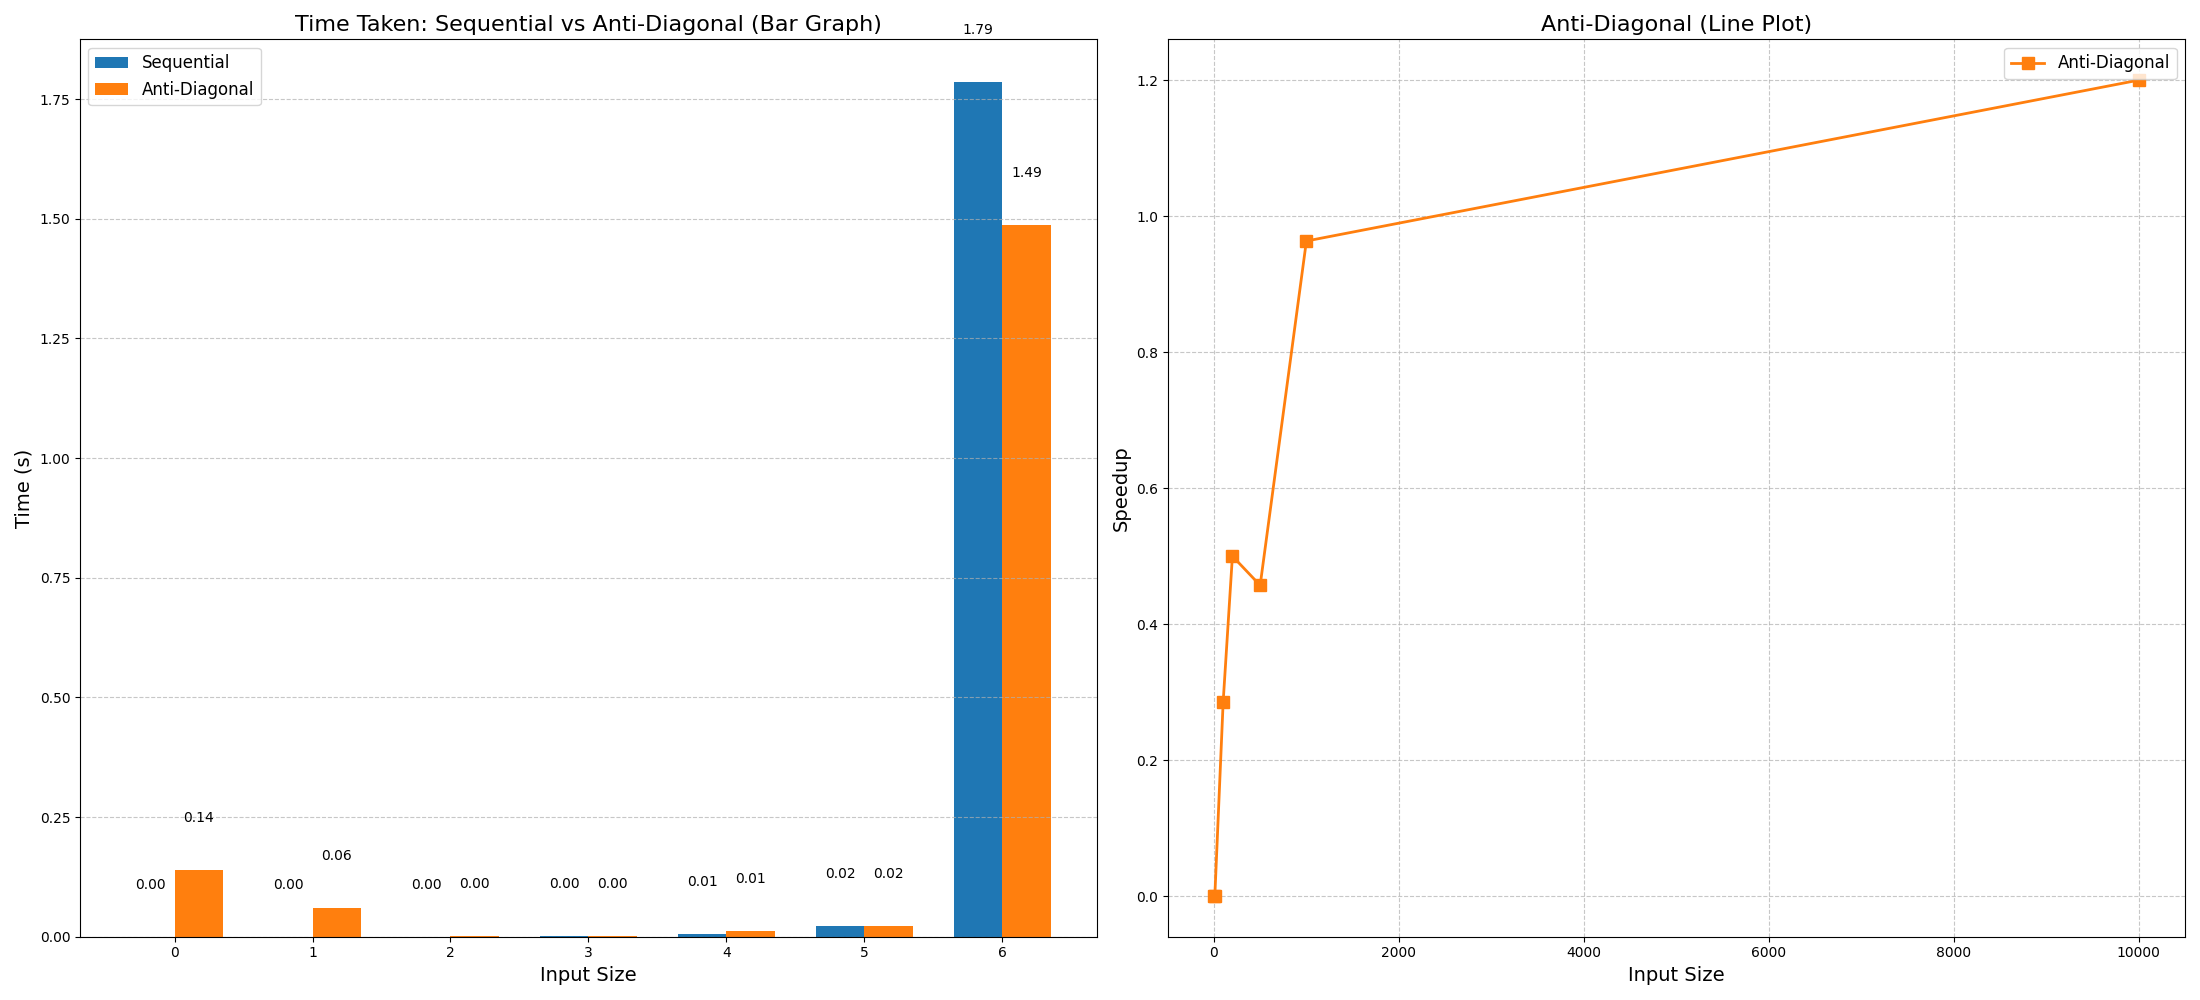
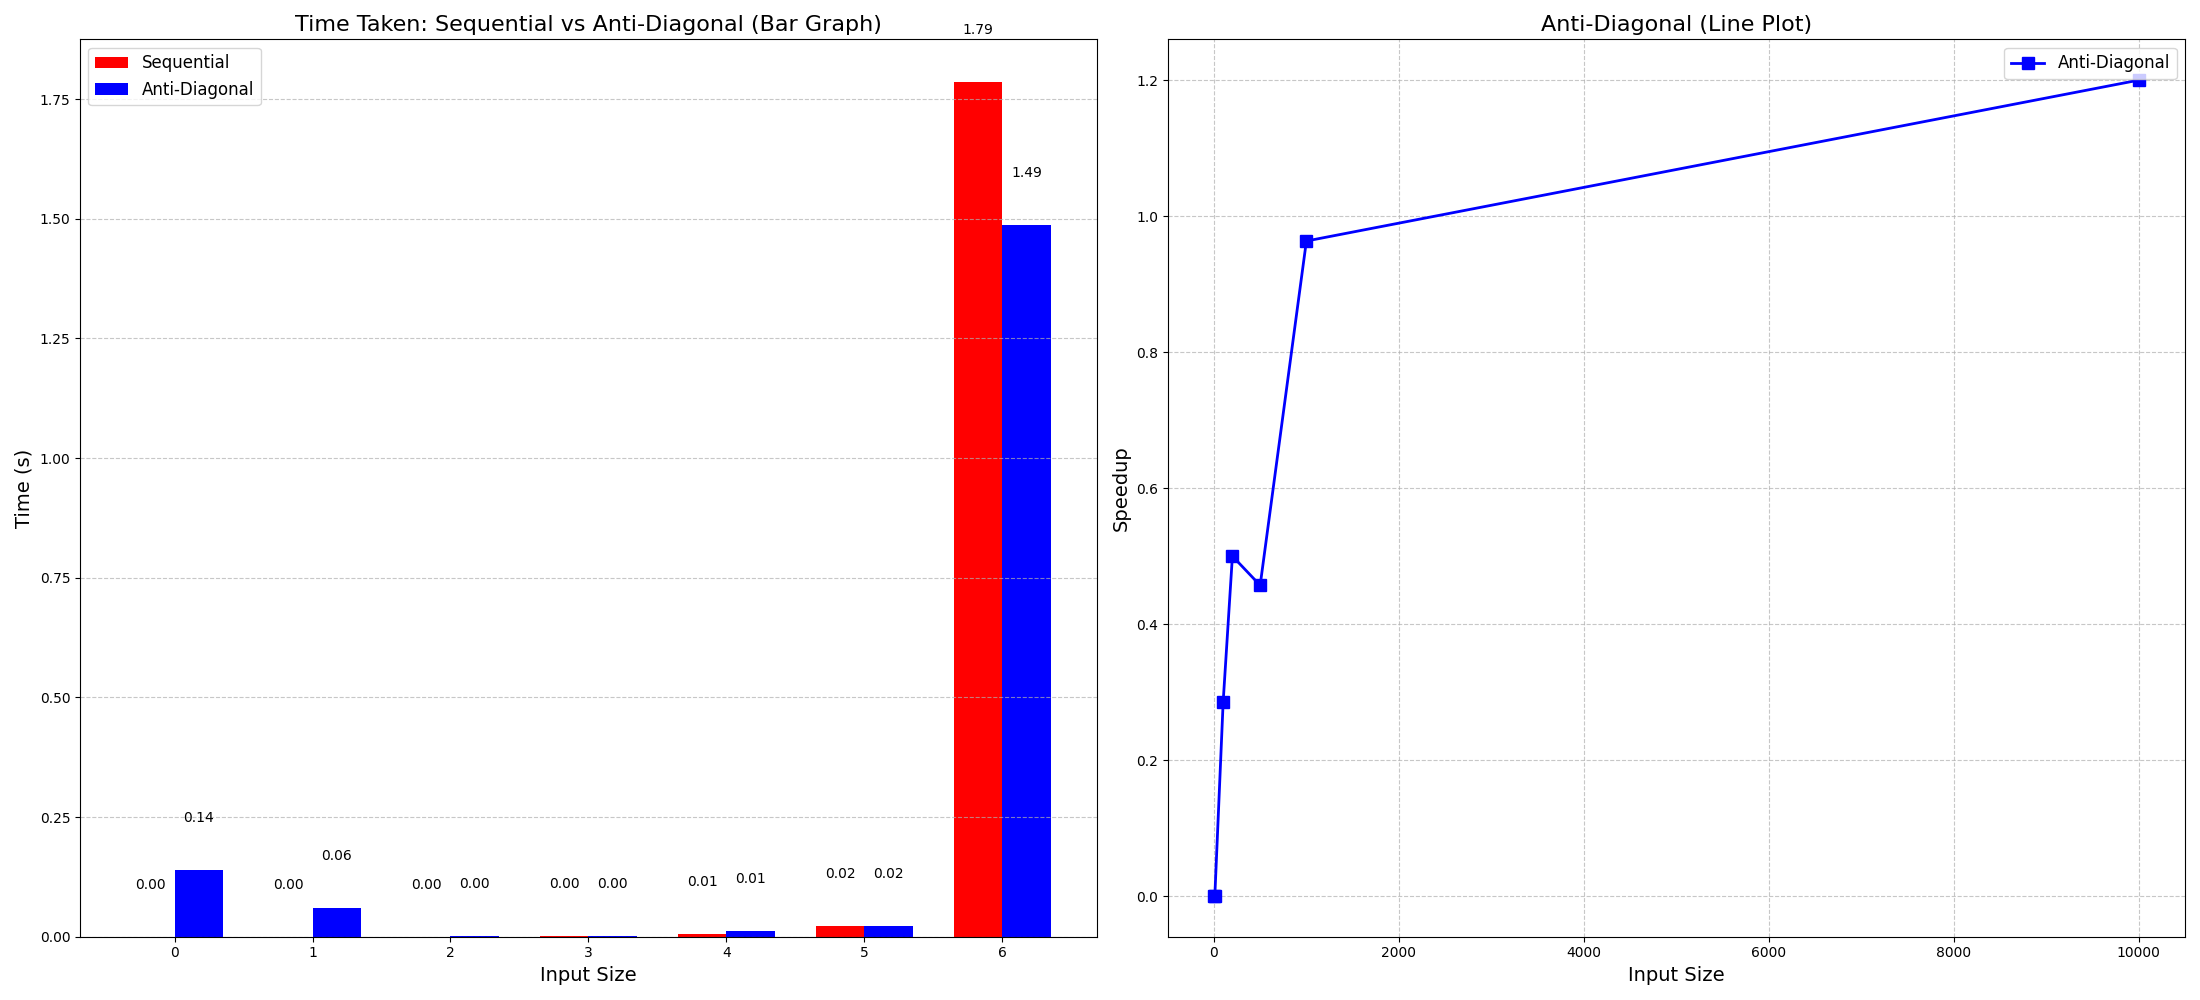
changed

diff --git a/commands/graph_creation/generate_graph_for_sequential_vs_anti_diagonal.py b/commands/graph_creation/generate_graph_for_sequential_vs_anti_diagonal.py
@@ -9,8 +9,8 @@ BASE_DIR = os.path.dirname(os.path.abspath(__file__))
 
 # Colors for plotting
 colors = {
-    'Sequential': '#1f77b4',
-    'Anti-Diagonal': '#ff7f0e',
+    'Sequential': 'red',
+    'Anti-Diagonal': 'blue',
     'Divide-and-Conquer': '#2ca02c'
 }
 
